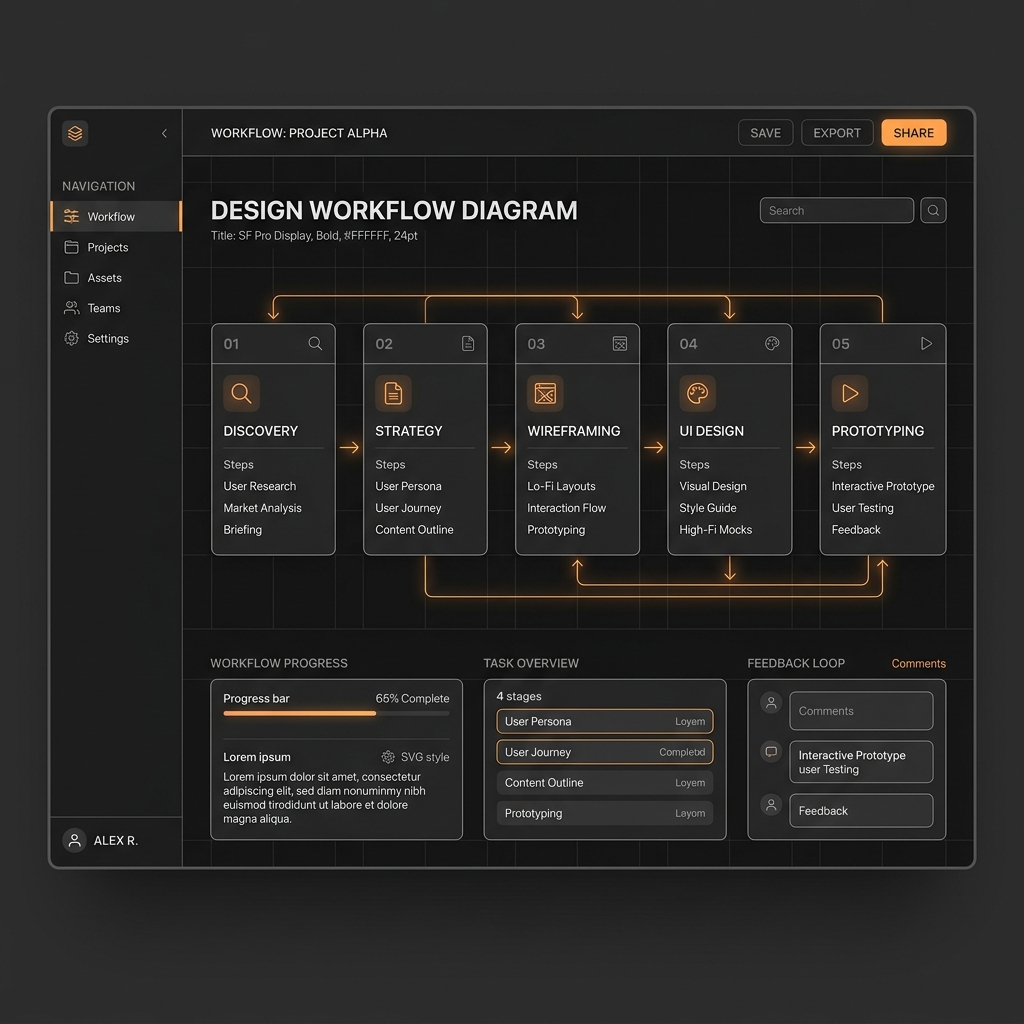
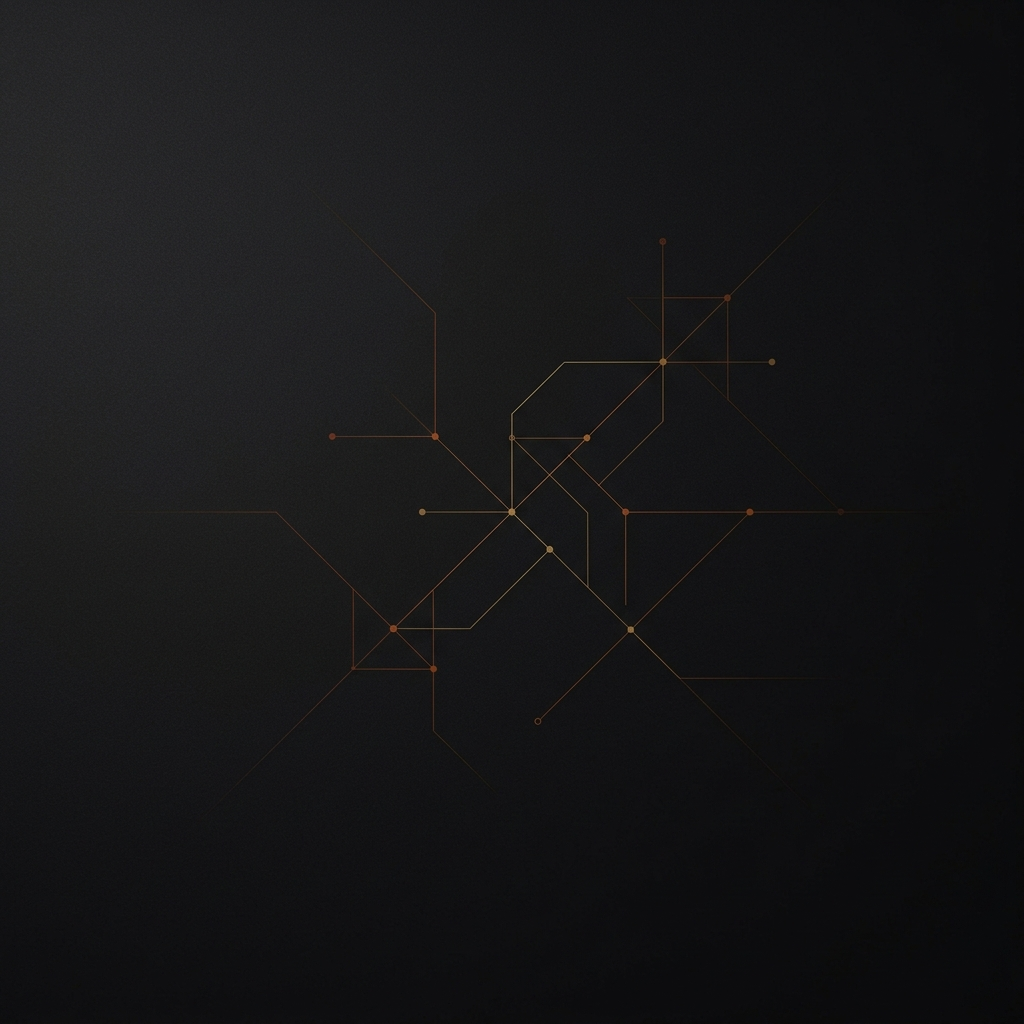
feat: simplify AI & Workflow card and remove duplicate educator artworks

diff --git a/index.html b/index.html
@@ -404,6 +404,10 @@
       overflow: hidden;
     }
 
+    .glass-card.project-card:hover .flow-visual-container {
+      transform: scale(1.05);
+    }
+
     .glass-card::before {
       content: '';
       position: absolute;
@@ -1894,7 +1898,7 @@
             style="grid-column: span 6; height: 40vh; display: flex; flex-direction: column; justify-content: flex-end; padding: 2rem;">
             <div class="p-img-wrap" id="gImg_ai_workflow"
               style="position: absolute; top:0; left:0; width:100%; height:100%; z-index: 0; overflow:hidden;">
-              <img src="/images/ai_workflow_cover.png" alt="AI &amp; Workflow" style="width:100%; height:100%; object-fit:cover; transition: transform 0.6s cubic-bezier(0.19, 1, 0.22, 1);" />
+              <img src="/images/ai_workflow_cover.png?v=2" alt="AI &amp; Workflow" style="width:100%; height:100%; object-fit:cover; transition: transform 0.6s cubic-bezier(0.19, 1, 0.22, 1);" />
             </div>
             <div style="position: relative; z-index: 2;">
               <div class="t-mono-label" style="color: var(--text-main);">Systems &amp; Efficiency</div>

diff --git a/pages/artist-educator.js b/pages/artist-educator.js
@@ -6,12 +6,13 @@ import StartProjectButton from '@/components/demo'
 const METRICS = [
   { n: '200+', l: 'Mentored Students' },
   { n: '12', l: 'Portfolio Selections' },
-  { n: '23', l: 'Original Paintings' },
+  { n: '19', l: 'Original Paintings' },
   { n: '6+', l: 'Years Teaching' },
 ]
 
-const ARTWORKS = Array.from({ length: 23 }, (_, i) => {
-  const id = i + 1;
+// IDs of unique paintings (duplicates 6, 16, 19, 21 removed)
+const UNIQUE_IDS = [1,2,3,4,5,7,8,9,10,11,12,13,14,15,17,18,20,22,23];
+const ARTWORKS = UNIQUE_IDS.map((id) => {
   let size = 'standard';
   if (id === 1 || id === 13) size = 'large';
   else if ([2, 8, 14, 20].includes(id)) size = 'tall';
